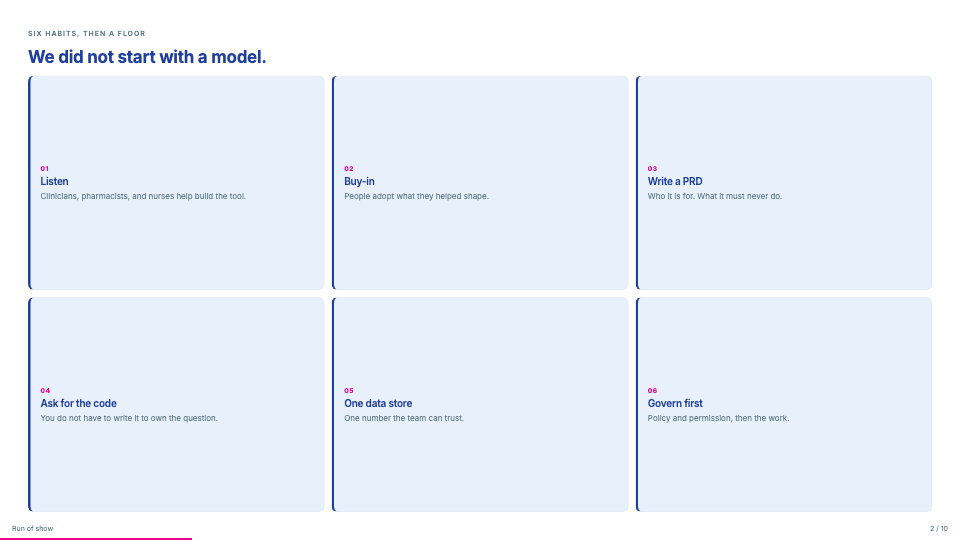
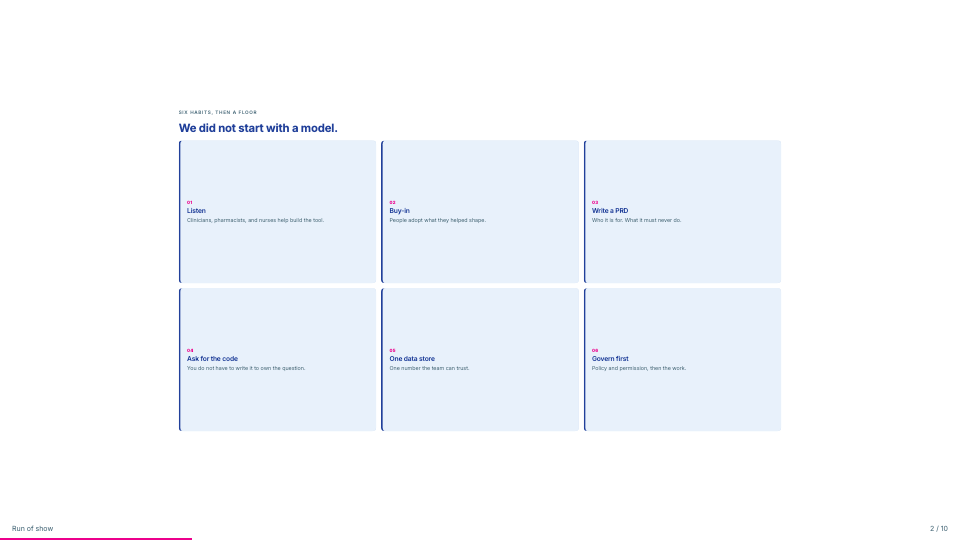
Implement Block 7 governance brief enhancements by updating the iframe for better integration and styling. Add new SASS rules to manage the iframe's height and overflow behavior, ensuring a seamless user experience. Update the governance brief HTML and JavaScript to facilitate dynamic height adjustm

diff --git a/assets/slides/block-00.html b/assets/slides/block-00.html
@@ -33,7 +33,7 @@ body[data-theme="siop"] .timeline li::before,body[data-theme="siop"] .slide ul l
 body[data-theme="siop"] .slide ul li::marker,body[data-theme="siop"] .agenda li::before{background:none}
 
 /* ===== Engine ===== */
-:root{--pad:96px;--gap:32px;--gap-lg:64px;--w:1920;--h:1080}
+:root{--pad:56px;--gap:18px;--gap-lg:32px;--w:1920;--h:1080}
 *{box-sizing:border-box;margin:0;padding:0}
 html,body{height:100%;background:var(--bg);color:var(--fg);font-family:var(--font-body);overflow:hidden}
 #stage{position:fixed;inset:0;display:grid;place-items:center}
@@ -42,15 +42,15 @@ html,body{height:100%;background:var(--bg);color:var(--fg);font-family:var(--fon
 .slide.active{opacity:1;visibility:visible}
 .slide>*+*{margin-top:var(--gap)}
 
-/* Type */
-h1{font-family:var(--font-display);font-weight:var(--display-weight);font-size:104px;line-height:1.05;letter-spacing:-.02em}
-h2{font-family:var(--font-display);font-weight:var(--display-weight);font-size:72px;line-height:1.1;letter-spacing:-.015em;max-width:26ch}
-h3{font-family:var(--font-body);font-weight:600;font-size:34px;line-height:1.2}
-p,li{font-size:36px;line-height:1.4;color:var(--fg)}
-.kicker{font-size:24px;letter-spacing:.14em;text-transform:uppercase;color:var(--fg-2);font-weight:600}
-.subtitle{font-size:42px;color:var(--fg-2);max-width:32ch}
-.meta{font-size:26px;color:var(--fg-2)}
-.source{position:absolute;left:var(--pad);bottom:56px;font-size:22px;color:var(--fg-2);margin:0}
+/* Type — same compact scale as Block 8, then the deck is drawn at 2/3 window size */
+h1{font-family:var(--font-display);font-weight:var(--display-weight);font-size:64px;line-height:1.08;letter-spacing:-.02em}
+h2{font-family:var(--font-display);font-weight:var(--display-weight);font-size:42px;line-height:1.15;letter-spacing:-.015em;max-width:28ch}
+h3{font-family:var(--font-body);font-weight:600;font-size:22px;line-height:1.25}
+p,li{font-size:22px;line-height:1.4;color:var(--fg)}
+.kicker{font-size:14px;letter-spacing:.14em;text-transform:uppercase;color:var(--fg-2);font-weight:600}
+.subtitle{font-size:26px;color:var(--fg-2);max-width:36ch}
+.meta{font-size:16px;color:var(--fg-2)}
+.source{position:absolute;left:var(--pad);bottom:36px;font-size:14px;color:var(--fg-2);margin:0}
 mark{background:none;color:var(--accent)}
 strong{font-weight:600}
 ul,ol{padding-left:1.1em}
@@ -58,18 +58,18 @@ li+li{margin-top:.5em}
 .slide ul li::marker{color:var(--accent)}
 
 /* Cover / closing */
-.format-cover h1::after,.format-closing h1::after{content:"";display:block;width:120px;height:6px;background:var(--accent);margin-top:var(--gap)}
+.format-cover h1::after,.format-closing h1::after{content:"";display:block;width:72px;height:4px;background:var(--accent);margin-top:var(--gap)}
 .format-cover .meta{margin-top:auto}
 
 /* Agenda */
 .agenda{list-style:none;padding:0;counter-reset:a}
-.agenda li{counter-increment:a;font-size:52px;font-family:var(--font-display);padding:24px 0;border-top:1px solid var(--rule);display:flex;gap:40px}
-.agenda li::before{content:counter(a,decimal-leading-zero);color:var(--accent);font-family:var(--font-body);font-size:28px;font-weight:600;padding-top:14px;min-width:60px}
+.agenda li{counter-increment:a;font-size:32px;font-family:var(--font-display);padding:12px 0;border-top:1px solid var(--rule);display:flex;gap:24px}
+.agenda li::before{content:counter(a,decimal-leading-zero);color:var(--accent);font-family:var(--font-body);font-size:16px;font-weight:600;padding-top:8px;min-width:40px}
 
 /* Section / statement */
-.format-section .section-number{font-size:160px;color:var(--accent);font-family:var(--font-display);line-height:1}
+.format-section .section-number{font-size:88px;color:var(--accent);font-family:var(--font-display);line-height:1}
 .format-statement{align-items:flex-start}
-.format-statement h1{font-size:88px;max-width:22ch}
+.format-statement h1{font-size:52px;max-width:24ch}
 
 /* Two column */
 .format-two-col{display:grid;grid-template-columns:1fr 1fr;gap:var(--gap-lg);align-items:center}
@@ -83,43 +83,43 @@ li+li{margin-top:.5em}
 
 /* Stats */
 .stats{display:grid;grid-auto-flow:column;grid-auto-columns:1fr;gap:var(--gap)}
-.stat{padding:48px;border-top:2px solid var(--rule);display:flex;flex-direction:column;gap:16px}
-.stat .num{font-family:var(--font-display);font-size:128px;line-height:1;color:var(--accent);font-weight:var(--display-weight)}
-.stat .label{font-size:30px;color:var(--fg-2)}
+.stat{padding:28px;border-top:2px solid var(--rule);display:flex;flex-direction:column;gap:10px}
+.stat .num{font-family:var(--font-display);font-size:72px;line-height:1;color:var(--accent);font-weight:var(--display-weight)}
+.stat .label{font-size:18px;color:var(--fg-2)}
 
 /* Bento */
 .bento{display:grid;grid-template-columns:repeat(3,1fr);grid-auto-rows:1fr;gap:var(--gap);flex:1;min-height:0}
-.card{background:var(--bg-2);border:1px solid var(--rule);border-radius:var(--radius);padding:44px;display:flex;flex-direction:column;gap:16px;justify-content:flex-end}
+.card{background:var(--bg-2);border:1px solid var(--rule);border-radius:var(--radius);padding:24px;display:flex;flex-direction:column;gap:8px;justify-content:flex-end}
 .card.span-2{grid-column:span 2}
-.card p{font-size:28px;color:var(--fg-2)}
+.card p{font-size:18px;color:var(--fg-2)}
 
 /* Compare */
 .compare{display:grid;grid-auto-flow:column;grid-auto-columns:1fr;gap:var(--gap)}
-.option{background:var(--bg-2);border:1px solid var(--rule);border-radius:var(--radius);padding:44px}
+.option{background:var(--bg-2);border:1px solid var(--rule);border-radius:var(--radius);padding:24px 28px}
 .option.pick{border:3px solid var(--accent)}
-.option h3{margin-bottom:24px}
+.option h3{margin-bottom:12px}
 .option ul{list-style:none;padding:0}
-.option li{font-size:30px;padding:14px 0;border-top:1px solid var(--rule)}
+.option li{font-size:20px;padding:8px 0;border-top:1px solid var(--rule)}
 
 /* Timeline */
 .timeline{list-style:none;padding:0;display:grid;grid-auto-flow:column;grid-auto-columns:1fr;gap:var(--gap);position:relative}
 .timeline::before{content:"";position:absolute;left:0;right:0;top:12px;height:2px;background:var(--rule)}
-.timeline li{padding-top:48px;position:relative;display:flex;flex-direction:column;gap:10px}
-.timeline li::before{content:"";position:absolute;top:0;left:0;width:26px;height:26px;border-radius:50%;background:var(--accent)}
-.timeline .when{font-size:24px;letter-spacing:.1em;text-transform:uppercase;color:var(--fg-2);font-weight:600}
-.timeline strong{font-size:38px}
-.timeline span:last-child{font-size:28px;color:var(--fg-2)}
+.timeline li{padding-top:32px;position:relative;display:flex;flex-direction:column;gap:6px}
+.timeline li::before{content:"";position:absolute;top:0;left:0;width:16px;height:16px;border-radius:50%;background:var(--accent)}
+.timeline .when{font-size:14px;letter-spacing:.1em;text-transform:uppercase;color:var(--fg-2);font-weight:600}
+.timeline strong{font-size:24px}
+.timeline span:last-child{font-size:18px;color:var(--fg-2)}
 .timeline.vertical{grid-auto-flow:row;grid-auto-columns:auto}
-.timeline.vertical::before{left:12px;top:0;bottom:0;width:2px;height:auto}
-.timeline.vertical li{padding:0 0 0 72px}
+.timeline.vertical::before{left:7px;top:0;bottom:0;width:2px;height:auto}
+.timeline.vertical li{padding:0 0 0 40px}
 
 /* Chart */
-.chart-wrap{flex:1;min-height:0;height:700px;position:relative}
+.chart-wrap{flex:1;min-height:0;height:460px;position:relative}
 .chart-wrap canvas{width:100%!important;height:100%!important}
 
 /* Notes (hidden) */
 .notes{display:none}
-body.show-notes .slide.active .notes{display:block;position:absolute;left:var(--pad);right:var(--pad);bottom:56px;background:var(--bg-2);border:1px solid var(--rule);padding:24px;font-size:26px;color:var(--fg-2);border-radius:var(--radius)}
+body.show-notes .slide.active .notes{display:block;position:absolute;left:var(--pad);right:var(--pad);bottom:36px;background:var(--bg-2);border:1px solid var(--rule);padding:14px 16px;font-size:16px;color:var(--fg-2);border-radius:var(--radius)}
 
 /* Reveal animations */
 .reveal{opacity:0;transform:translateY(16px);transition:opacity .5s ease,transform .5s ease;transition-delay:calc(var(--d,0) * 120ms)}
@@ -150,36 +150,36 @@ body.overview .slide .reveal{opacity:1;transform:none}
 }
 
 /* ===== Block 0 extras ===== */
-.cover-logo{width:min(420px,40vw);height:auto;display:block}
-.format-cover .cover-logo{margin-bottom:8px}
-.coi{font-size:28px;color:var(--fg-2);max-width:46ch;line-height:1.45}
-.models{display:grid;grid-template-columns:repeat(4,1fr);gap:var(--gap);margin-top:8px}
-.model{background:var(--bg-2);border:1px solid var(--rule);border-radius:var(--radius);padding:28px 28px 32px;min-height:160px;display:flex;flex-direction:column;justify-content:flex-end;gap:10px;border-top:8px solid var(--brand)}
+.cover-logo{width:min(280px,36vw);height:auto;display:block}
+.format-cover .cover-logo{margin-bottom:6px}
+.coi{font-size:18px;color:var(--fg-2);max-width:46ch;line-height:1.45}
+.models{display:grid;grid-template-columns:repeat(4,1fr);gap:var(--gap);margin-top:6px}
+.model{background:var(--bg-2);border:1px solid var(--rule);border-radius:var(--radius);padding:18px 18px 20px;min-height:100px;display:flex;flex-direction:column;justify-content:flex-end;gap:6px;border-top:5px solid var(--brand)}
 .model[data-m="claude"]{border-top-color:#d97757}
 .model[data-m="chatgpt"]{border-top-color:#10a37f}
 .model[data-m="gemini"]{border-top-color:#4285f4}
 .model[data-m="perplexity"]{border-top-color:#20808d}
-.model h3{font-size:40px;letter-spacing:-.02em}
-.model .maker{font-size:22px;color:var(--fg-2);font-weight:600;letter-spacing:.04em;text-transform:uppercase}
-.caps{display:flex;flex-wrap:wrap;gap:12px}
-.cap{font-size:24px;font-weight:600;padding:14px 22px;border-radius:999px;background:var(--bg-2);border:1px solid var(--rule);color:var(--fg)}
-.punch{font-size:40px;font-weight:700;color:var(--brand);letter-spacing:-.02em}
-.slide.tight h2{font-size:56px;max-width:28ch}
-.paper{background:#f7f4ee;border:1px solid #e4ddd0;border-radius:8px;padding:56px 64px;box-shadow:0 18px 40px rgba(27,42,74,.08);max-width:100%}
-.paper .journal{font-size:22px;letter-spacing:.16em;text-transform:uppercase;color:#8a8073;font-weight:600}
-.paper-title{font-family:var(--font-display);font-weight:var(--display-weight);font-size:44px;line-height:1.15;letter-spacing:-.02em;max-width:22ch;color:var(--brand)}
-.paper .byline{font-size:28px;color:#5c574f}
-.paper blockquote{font-family:var(--font-display);font-size:36px;line-height:1.35;color:#1a1a1a;border-left:6px solid var(--accent);padding-left:28px;max-width:28ch}
+.model h3{font-size:26px;letter-spacing:-.02em}
+.model .maker{font-size:14px;color:var(--fg-2);font-weight:600;letter-spacing:.04em;text-transform:uppercase}
+.caps{display:flex;flex-wrap:wrap;gap:8px}
+.cap{font-size:16px;font-weight:600;padding:8px 14px;border-radius:999px;background:var(--bg-2);border:1px solid var(--rule);color:var(--fg)}
+.punch{font-size:26px;font-weight:700;color:var(--brand);letter-spacing:-.02em}
+.slide.tight h2{font-size:34px;max-width:32ch}
+.paper{background:#f7f4ee;border:1px solid #e4ddd0;border-radius:8px;padding:36px 42px;box-shadow:0 12px 28px rgba(27,42,74,.08);max-width:100%}
+.paper .journal{font-size:14px;letter-spacing:.16em;text-transform:uppercase;color:#8a8073;font-weight:600}
+.paper-title{font-family:var(--font-display);font-weight:var(--display-weight);font-size:28px;line-height:1.15;letter-spacing:-.02em;max-width:22ch;color:var(--brand)}
+.paper .byline{font-size:18px;color:#5c574f}
+.paper blockquote{font-family:var(--font-display);font-size:24px;line-height:1.35;color:#1a1a1a;border-left:4px solid var(--accent);padding-left:18px;max-width:28ch}
 .format-media{justify-content:flex-start}
 .format-media .media{flex:1;min-height:0;max-height:none;background:#f3f6fb}
 .format-media .media.contain img{object-fit:contain;background:#f3f6fb}
-.reel-frame{width:420px;height:720px;margin:0 auto;border-radius:28px;overflow:hidden;background:#111;border:1px solid var(--rule);position:relative}
-.reel-fallback{position:absolute;inset:0;display:flex;flex-direction:column;align-items:center;justify-content:center;gap:20px;padding:40px;text-align:center;color:#fff;background:linear-gradient(180deg,#21409a,#0e1c44)}
-.reel-fallback p{color:#d6e4f5;font-size:26px}
-.reel-fallback a{color:#ffc20e;font-size:24px;font-weight:700;text-decoration:none}
+.reel-frame{width:280px;height:480px;margin:0 auto;border-radius:18px;overflow:hidden;background:#111;border:1px solid var(--rule);position:relative}
+.reel-fallback{position:absolute;inset:0;display:flex;flex-direction:column;align-items:center;justify-content:center;gap:14px;padding:26px;text-align:center;color:#fff;background:linear-gradient(180deg,#21409a,#0e1c44)}
+.reel-fallback p{color:#d6e4f5;font-size:17px}
+.reel-fallback a{color:#ffc20e;font-size:16px;font-weight:700;text-decoration:none}
 .reel-frame iframe{position:relative;z-index:1;width:100%;height:100%;border:0;background:transparent}
-.play-btn{width:84px;height:84px;border-radius:50%;background:var(--accent);display:grid;place-items:center}
-.play-btn svg{width:32px;height:32px;margin-left:4px}
+.play-btn{width:56px;height:56px;border-radius:50%;background:var(--accent);display:grid;place-items:center}
+.play-btn svg{width:22px;height:22px;margin-left:3px}
 a.quiet{color:inherit}
 .home-link{position:fixed;left:24px;bottom:16px;font-size:14px;color:var(--fg-2);text-decoration:none;z-index:5;font-family:var(--font-body)}
 .home-link:hover{color:var(--accent)}
@@ -219,7 +219,7 @@ a.quiet{color:inherit}
       <h3>Perplexity</h3>
     </div>
   </div>
-  <p class="reveal" data-delay="3" style="font-size:28px;color:var(--fg-2);margin-top:8px">Today they look different. They do the same work.</p>
+  <p class="reveal" data-delay="3" style="font-size:18px;color:var(--fg-2);margin-top:8px">Today they look different. They do the same work.</p>
   <div class="caps reveal" data-delay="4">
     <span class="cap">Skills</span>
     <span class="cap">Tools (MCP)</span>
@@ -246,7 +246,7 @@ a.quiet{color:inherit}
     </div>
   </div>
   <div class="col">
-    <blockquote class="reveal" data-delay="2" style="font-size:44px;line-height:1.3;max-width:18ch;font-family:var(--font-display);border:0;padding:0;color:var(--brand)">“I think we are in the early stages of probably the greatest experiment in the history of medicine.”</blockquote>
+    <blockquote class="reveal" data-delay="2" style="font-size:28px;line-height:1.3;max-width:18ch;font-family:var(--font-display);border:0;padding:0;color:var(--brand)">“I think we are in the early stages of probably the greatest experiment in the history of medicine.”</blockquote>
     <p class="meta reveal" data-delay="3">Right often enough to be useful. Wrong often enough not to be trusted.</p>
   </div>
   <p class="source">Shaw T. CU Anschutz Department of Medicine, 19 March 2026.</p>
@@ -303,9 +303,9 @@ a.quiet{color:inherit}
 <script>
 (function(){
   const deck=document.getElementById('deck'), slides=[...deck.querySelectorAll('.slide')];
-  const W=1920,H=1080; let i=0, goBuf=null;
+  const W=1920,H=1080,VIEW=2/3; let i=0, goBuf=null;
   function fit(){ if(document.body.classList.contains('overview'))return;
-    const s=Math.min(innerWidth/W,innerHeight/H); deck.style.transform=`scale(${s})`; }
+    const s=Math.min(innerWidth/W,innerHeight/H)*VIEW; deck.style.transform=`scale(${s})`; }
   function show(n,push=true){
     n=Math.max(0,Math.min(slides.length-1,n));
     slides.forEach((s,k)=>s.classList.toggle('active',k===n)); i=n;

diff --git a/assets/js/block-07.js b/assets/js/block-07.js
@@ -51,6 +51,13 @@
           nextBtn.textContent = step === last ? opts.resetLabel : "Next";
         }
         showStatus("");
+        if (step === 6) {
+          window.requestAnimationFrame(function () {
+            requestGovHeight();
+            window.setTimeout(requestGovHeight, 80);
+            window.setTimeout(requestGovHeight, 400);
+          });
+        }
       } catch (err) {
         showStatus("The demo failed in the step change: " + err.message);
       }
@@ -120,6 +127,63 @@
     }
   }
 
+  // The governance brief lives in an iframe. It tells us its height
+  // so the box can grow and we never show a scrollbar inside it.
+  function applyGovHeight(h) {
+    var frame = $("b7-gov-frame");
+    if (!frame || !h || h < 200) {
+      return;
+    }
+    frame.style.height = Math.ceil(h) + "px";
+  }
+
+  function requestGovHeight() {
+    var frame = $("b7-gov-frame");
+    if (!frame) {
+      return;
+    }
+    try {
+      var doc = frame.contentDocument;
+      if (doc) {
+        var root = doc.getElementById("gov-root");
+        var h = root
+          ? Math.max(root.scrollHeight, root.getBoundingClientRect().height)
+          : doc.documentElement.scrollHeight;
+        applyGovHeight(h);
+      }
+    } catch (err) {
+      // Cross-origin: wait for the brief to postMessage instead.
+    }
+    try {
+      if (frame.contentWindow) {
+        frame.contentWindow.postMessage({ type: "b7-gov-remeasure" }, "*");
+      }
+    } catch (err) {
+      console.error("Could not ask the brief for its height:", err.message);
+    }
+  }
+
+  function bindGovFrame() {
+    var frame = $("b7-gov-frame");
+    if (!frame) {
+      return;
+    }
+
+    window.addEventListener("message", function (ev) {
+      var data = ev.data;
+      if (!data || data.type !== "b7-gov-height") {
+        return;
+      }
+      applyGovHeight(Number(data.height));
+    });
+
+    frame.addEventListener("load", function () {
+      requestGovHeight();
+      window.setTimeout(requestGovHeight, 400);
+      window.setTimeout(requestGovHeight, 1400);
+    });
+  }
+
   function ready() {
     bindDemo({
       prefix: "stage-",
@@ -130,6 +194,7 @@
       resetLabel: "Back to the path"
     });
     bindCopy();
+    bindGovFrame();
   }
 
   if (document.readyState === "loading") {

diff --git a/assets/block-07/ai_governance.jsx b/assets/block-07/ai_governance.jsx
@@ -690,3 +690,54 @@ if (mount && window.ReactDOM) {
   var root = ReactDOM.createRoot(mount);
   root.render(<AiGovernanceBrief />);
 }
+
+/* When this brief is inside the Block 7 iframe, tell the parent page
+   how tall we are so the box can grow and hide its inner scrollbar. */
+function startHeightBridge() {
+  if (window.parent === window) {
+    return;
+  }
+  try {
+    document.documentElement.style.overflow = "hidden";
+    document.body.style.overflow = "hidden";
+  } catch (err) {
+    console.error("The overflow lock failed:", err.message);
+  }
+
+  function send() {
+    try {
+      var el = document.getElementById("gov-root");
+      var h = 0;
+      if (el) {
+        h = Math.ceil(Math.max(el.scrollHeight, el.getBoundingClientRect().height));
+      }
+      if (!h) {
+        h = Math.ceil(document.documentElement.scrollHeight);
+      }
+      window.parent.postMessage({ type: "b7-gov-height", height: h }, "*");
+    } catch (err) {
+      console.error("The height report failed:", err.message);
+    }
+  }
+
+  send();
+  if (window.ResizeObserver) {
+    var el = document.getElementById("gov-root");
+    if (el) {
+      var ro = new ResizeObserver(function () { send(); });
+      ro.observe(el);
+    }
+  }
+  window.addEventListener("resize", send);
+  window.addEventListener("message", function (ev) {
+    if (ev.data && ev.data.type === "b7-gov-remeasure") {
+      send();
+    }
+  });
+}
+
+try {
+  startHeightBridge();
+} catch (err) {
+  console.error("The height bridge failed:", err.message);
+}

diff --git a/assets/slides/block-08.html b/assets/slides/block-08.html
@@ -361,9 +361,9 @@ body.overview .slide .reveal{opacity:1;transform:none}
 <script>
 (function(){
   const deck=document.getElementById('deck'), slides=[...deck.querySelectorAll('.slide')];
-  const W=1920,H=1080; let i=0, goBuf=null;
+  const W=1920,H=1080,VIEW=2/3; let i=0, goBuf=null;
   function fit(){ if(document.body.classList.contains('overview'))return;
-    const s=Math.min(innerWidth/W,innerHeight/H); deck.style.transform=`scale(${s})`; }
+    const s=Math.min(innerWidth/W,innerHeight/H)*VIEW; deck.style.transform=`scale(${s})`; }
   function show(n,push=true){
     n=Math.max(0,Math.min(slides.length-1,n));
     slides.forEach((s,k)=>s.classList.toggle('active',k===n)); i=n;

diff --git a/assets/block-07/ai_governance.html b/assets/block-07/ai_governance.html
@@ -8,8 +8,8 @@
   <script crossorigin src="https://unpkg.com/react-dom@18/umd/react-dom.production.min.js"></script>
   <script src="https://unpkg.com/@babel/standalone/babel.min.js"></script>
   <style>
-    html, body { margin: 0; min-height: 100%; background: #F4F7F9; }
-    #gov-root { min-height: 100vh; }
+    html, body { margin: 0; background: #F4F7F9; }
+    #gov-root { display: block; }
   </style>
 </head>
 <body>

diff --git a/_sass/aibedside.scss b/_sass/aibedside.scss
@@ -708,6 +708,18 @@
     background: #faf8f4;
 }
 
+// Block 7 governance brief: grow to the page inside, no inner scrollbar.
+.demo-frame.b7-gov-frame {
+    height: auto;
+    min-height: 720px;
+    overflow: hidden;
+    scrollbar-width: none;
+}
+
+.demo-frame.b7-gov-frame::-webkit-scrollbar {
+    display: none;
+}
+
 .demo-mermaid {
     margin-top: 1rem;
     border: 1px solid #E0E0E0;

diff --git a/block-07-research.md b/block-07-research.md
@@ -322,7 +322,7 @@ Quote the recommendation from the PDF; do not paraphrase. If a paper has no PDF 
     <p class="demo-open-row">
       <a class="demo-ask" href="{{ site.baseurl }}/assets/block-07/ai_governance.html" target="_blank" rel="noopener">Open the brief</a>
     </p>
-    <iframe class="demo-frame" title="Governance of AI in Healthcare — interactive evidence brief" src="{{ site.baseurl }}/assets/block-07/ai_governance.html"></iframe>
+    <iframe class="demo-frame b7-gov-frame" id="b7-gov-frame" title="Governance of AI in Healthcare — interactive evidence brief" src="{{ site.baseurl }}/assets/block-07/ai_governance.html" scrolling="no"></iframe>
     <p class="demo-stage-copy">Built the same way as the Block 2 guideline explainer: a paper-to-artifact prompt, then a person checking every number. The footnote on the recall figure is the honest part &mdash; keep it.</p>
   </div>
 
